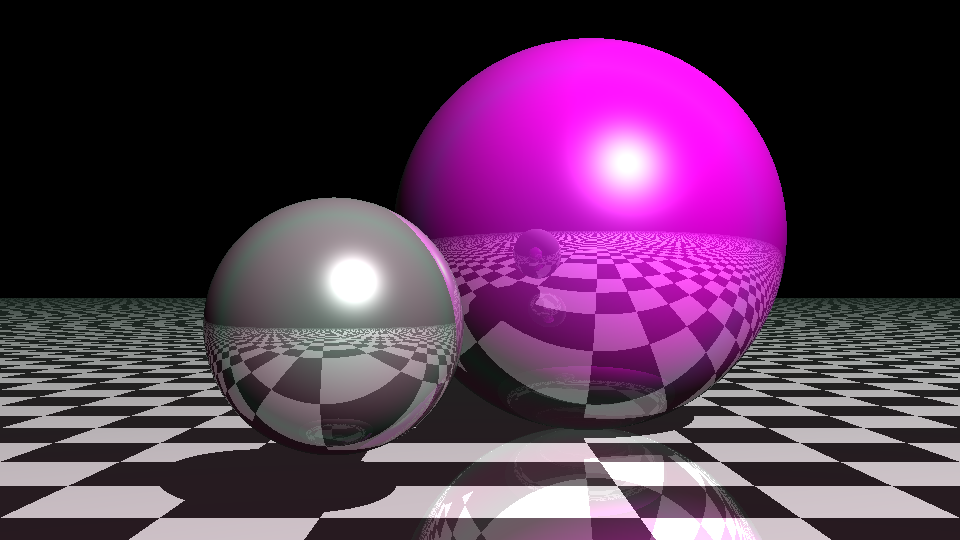
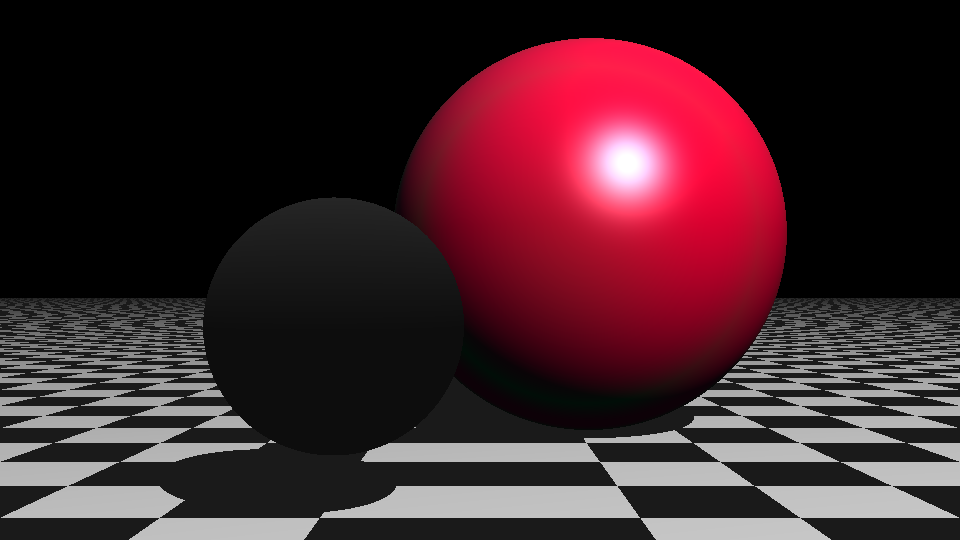
feat: one shader by object

diff --git a/ray_tracer/infrastructure.py b/ray_tracer/infrastructure.py
@@ -85,50 +85,41 @@ class NumpyRGBColor(NumpyVector3D):
 class NumpyShader(Shader):
     def __init__(
         self,
-        shape: Shape,
-        ray_tracer: Renderer,
-        ray_origin: NumpyVector3D,
-        normalized_ray_direction: NumpyVectorArray3D,
-        distance_origin_to_intersection: np.ndarray,
-        scene: Scene3D,
         reflection_gain: float,
         specular_gain: float,
         specular_roughness: float,
         iridescence_gain: float,
         diffuse_gain: float,
     ):
-        self.shape = shape
-        self.ray_tracer = ray_tracer
-        self.ray_origin = ray_origin
-        self.normalized_ray_direction = normalized_ray_direction
-        self.distance_origin_to_intersection = distance_origin_to_intersection
-        self.scene = scene
         self.reflection_gain = reflection_gain
         self.specular_gain = specular_gain
         self.specular_roughness = specular_roughness
         self.iridescence_gain = iridescence_gain
         self.diffuse_gain = diffuse_gain
 
-        self.shader = self.create()
-
-    def to_rgb(self) -> NumpyRGBColor:
+    def to_rgb(self, shader: Self) -> NumpyRGBColor:
         return NumpyRGBColor(
-            np.clip(self.shader.x, 0, 1),
-            np.clip(self.shader.y, 0, 1),
-            np.clip(self.shader.z, 0, 1),
+            np.clip(shader.x, 0, 1),
+            np.clip(shader.y, 0, 1),
+            np.clip(shader.z, 0, 1),
         )
 
-    def create(self) -> NumpyVector3D:
+    def create(
+        self,
+        shape: Shape,
+        scene: Scene3D,
+        ray_origin: NumpyVector3D,
+        normalized_ray_direction: NumpyVector3D,
+        distance_origin_to_intersection: float,
+        ray_tracer: Renderer,
+    ) -> NumpyVector3D:
         """This is the main function that will be called to compute the color of the pixel."""
         intersection_point = (
-            self.ray_origin
-            + self.normalized_ray_direction * self.distance_origin_to_intersection
+            ray_origin + normalized_ray_direction * distance_origin_to_intersection
         )
-        normal = (intersection_point - self.shape.position) * (1.0 / self.shape.radius)
-        direction_to_light = (self.scene.lights[0].position - intersection_point).norm()
-        direction_to_ray_origin = (
-            self.scene.camera.position - intersection_point
-        ).norm()
+        normal = (intersection_point - shape.position) * (1.0 / shape.radius)
+        direction_to_light = (scene.lights[0].position - intersection_point).norm()
+        direction_to_ray_origin = (scene.camera.position - intersection_point).norm()
         nudged_intersection_point = (
             intersection_point + normal * 0.0001
         )  # to avoid itself
@@ -136,20 +127,26 @@ class NumpyShader(Shader):
         is_in_light = self._calculate_shadow(
             nudged_intersection_point,
             direction_to_light,
+            scene,
+            shape,
         )
 
         color = self._calculate_ambient_color()
 
         color += self._calculate_diffuse(
-            intersection_point, normal, direction_to_light, is_in_light
+            intersection_point, normal, direction_to_light, is_in_light, shape
         )
 
         color += self._calculate_reflection(
             nudged_intersection_point,
             normal,
+            normalized_ray_direction,
+            shape,
+            scene,
+            ray_tracer,
         )
 
-        color += self._calculate_dome_light(normal)
+        color += self._calculate_dome_light(normal, scene)
 
         color += (
             self._calculate_phong_specular(
@@ -166,6 +163,8 @@ class NumpyShader(Shader):
         self,
         nudged_intersection_point: NumpyVector3D,
         direction_to_light: NumpyVector3D,
+        scene: Scene3D,
+        shape: Shape,
     ) -> bool:
         """Calculates whether the intersection point is in light or in shadow.
         It does this by checking if the intersection point is closer to the light source
@@ -179,10 +178,10 @@ class NumpyShader(Shader):
         """
         light_distances = [
             shape.intersect(nudged_intersection_point, direction_to_light)
-            for shape in self.scene.shapes
+            for shape in scene.shapes
         ]
         light_nearest = reduce(np.minimum, light_distances)
-        return light_distances[self.scene.shapes.index(self.shape)] == light_nearest
+        return light_distances[scene.shapes.index(shape)] == light_nearest
 
     def _calculate_diffuse(
         self,
@@ -190,10 +189,12 @@ class NumpyShader(Shader):
         normal: NumpyVector3D,
         direction_to_light: NumpyVector3D,
         is_in_light: bool,
-    ):
+        shape: Shape,
+    ) -> NumpyRGBColor:
+        """Calculates the diffuse color of the shape at the intersection point."""
         diffuse_light_intensity = np.maximum(normal.dot(direction_to_light), 0)
         return (
-            self.shape.diffusecolor(intersection_point)
+            shape.diffusecolor(intersection_point)
             * diffuse_light_intensity
             * is_in_light
             * self.diffuse_gain
@@ -203,18 +204,21 @@ class NumpyShader(Shader):
         self,
         nudged_intersection_point: NumpyVector3D,
         normal: NumpyVector3D,
+        normalized_ray_direction: NumpyVector3D,
+        shape: Shape,
+        scene: Scene3D,
+        ray_tracer: Renderer,
     ) -> NumpyRGBColor:
         ray_direction = (
-            self.normalized_ray_direction
-            - normal * 2 * self.normalized_ray_direction.dot(normal)
+            normalized_ray_direction - normal * 2 * normalized_ray_direction.dot(normal)
         ).norm()
         return (
-            self.ray_tracer.raytrace_scene(
+            ray_tracer.raytrace_scene(
                 nudged_intersection_point,
                 ray_direction,
-                self.scene,
+                scene,
             )
-            * self.shape.mirror
+            * shape.mirror
             * self.reflection_gain
         )
 
@@ -261,12 +265,14 @@ class NumpyShader(Shader):
 
         return iridescence_color * self.iridescence_gain
 
-    def _calculate_dome_light(self, normal: NumpyVector3D) -> NumpyRGBColor:
+    def _calculate_dome_light(
+        self, normal: NumpyVector3D, scene: Scene3D
+    ) -> NumpyRGBColor:
         light_direction = NumpyVector3D(0, 1, 0)  # from sky
         dome_intensity = 0.0
         dome_color = NumpyRGBColor(1.0, 1.0, 1.0)
 
-        for light in self.scene.lights:
+        for light in scene.lights:
             if isinstance(light, DomeLight):
                 dome_color = light.color
                 dome_intensity += light.intensity * np.maximum(
@@ -281,6 +287,7 @@ class NumpySphere(Shape):
         self,
         center: NumpyVector3D,
         radius: float,
+        shader: Shader,
         diffuse: NumpyRGBColor,
         mirror: float = 0.5,
     ) -> None:
@@ -289,6 +296,7 @@ class NumpySphere(Shape):
         self.radius = radius
         self.diffuse = diffuse
         self.mirror = mirror
+        self.shader = shader
 
     def intersect(
         self, ray_origin: NumpyVector3D, normalized_ray_direction: NumpyVector3D
@@ -387,20 +395,6 @@ class CheckeredSphere(NumpySphere):
 
 
 class NumpyRenderer(Renderer):
-    def __init__(
-        self,
-        reflection_gain: float = 0.0,
-        specular_gain: float = 1.0,
-        specular_roughness: float = 0.5,
-        iridescence_gain: float = 0.0,
-        diffuse_gain: float = 1.0,
-    ) -> None:
-        self.reflection_gain = reflection_gain
-        self.specular_gain = specular_gain
-        self.specular_roughness = specular_roughness
-        self.iridescence_gain = iridescence_gain
-        self.diffuse_gain = diffuse_gain
-
     def raytrace_scene(
         self,
         ray_origin: NumpyVector3D,
@@ -425,19 +419,14 @@ class NumpyRenderer(Renderer):
                     normalized_ray_direction.extract(hit)
                 )
 
-                computed_color = NumpyShader(
+                computed_color = shape.shader.create(
                     shape,
-                    self,
+                    scene,
                     extracted_ray_origin,
                     extracted_normalized_ray_direction,
                     extracted_distance_to_intersection,
-                    scene,
-                    self.reflection_gain,
-                    self.specular_gain,
-                    self.specular_roughness,
-                    self.iridescence_gain,
-                    self.diffuse_gain,
-                ).to_rgb()
+                    self,
+                )
 
                 color += computed_color.place(hit)
 

diff --git a/main.py b/main.py
@@ -7,38 +7,37 @@ from ray_tracer.infrastructure import (
     CheckeredSphere,
     NumpyRenderer,
     NumpyRGBColor,
+    NumpyShader,
     NumpySphere,
     NumpyVector3D,
 )
 
 if __name__ == "__main__":
-    renderer = NumpyRenderer(
-        reflection_gain=0.8,
-        specular_gain=1.0,
-        specular_roughness=0.5,
-        iridescence_gain=0.05,
-        diffuse_gain=1.0,
-    )
+    renderer = NumpyRenderer()
 
     scene = Scene3D(
         [
             NumpySphere(
                 NumpyVector3D(0.55, 0.5, 3),
                 1.0,
-                NumpyRGBColor(1, 0, 1),
+                NumpyShader(1.0, 1.0, 0.5, 0.05, 1.0),
+                NumpyRGBColor(1, 0, 0.2),
             ),
             NumpySphere(
-                NumpyVector3D(-0.45, 0.1, 1), 0.4, NumpyRGBColor(0.5, 0.5, 0.5)
+                NumpyVector3D(-0.45, 0.1, 1),
+                0.4,
+                NumpyShader(0.0, 0.05, 1.0, 0.0, 0.0),
+                NumpyRGBColor(0.5, 0.5, 0.5),
             ),
             CheckeredSphere(
                 NumpyVector3D(0, -99999.5, 0),
                 99999,
+                NumpyShader(1.0, 0.0, 0.0, 0.0, 1.0),
                 NumpyRGBColor(
                     1,
                     1,
                     1,
                 ),
-                1.0,
             ),
         ],
         [
